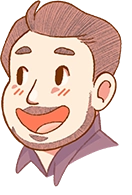
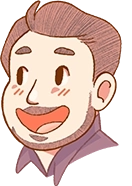
edited employee image photos to fit them better and removed eb name and eb person image preloads

diff --git a/public/template.html b/public/template.html
@@ -14,21 +14,6 @@
     <!-- Always -->
     <link rel="preload" as="image" href="/assets/navbar/logo.svg" />
 
-    <!-- 600px and downwards -->
-    <link
-      rel="preload"
-      as="image"
-      media="(max-width: 600px)"
-      href="/assets/ebSection/ebName.svg"
-    />
-
-    <link
-      rel="preload"
-      as="image"
-      media="(max-width: 600px)"
-      href="/assets/ebSection/ebPerson.webp"
-    />
-
     <!--   600px and upwards -->
     <link
       rel="preload"
@@ -305,11 +290,13 @@
                 id="banzaimanLogo"
                 src="assets/banzaimanSection/logoTest.webp"
               />
-              <img
-                alt="banzaiman game image"
-                id="banzaimanGameImage"
-                src="assets/banzaimanSection/tabSelector/banzai_1.webp"
-              />
+              <div id="banzaimanGameImageContainer">
+                <img
+                  alt="banzaiman game image"
+                  id="banzaimanGameImage"
+                  src="assets/banzaimanSection/tabSelector/banzai_1.webp"
+                />
+              </div>
               <div id="banzaimanTabSelector">
                 <button id="gongButton" class="tabSelectorButton">
                   <img

diff --git a/src/style.css b/src/style.css
@@ -556,10 +556,14 @@ button {
   width: 400px;
 }
 
-#banzaimanGameImage {
-  display: block;
+#banzaimanGameImageContainer {
   width: 560px;
   height: 335px;
+}
+
+.banzaimanGameImage {
+  width: 100%;
+  height: 100%;
 }
 
 #banzaimanTabSelector {
@@ -710,7 +714,7 @@ button {
 
 .employeeImage {
   position: absolute;
-  bottom: 12.7rem;
+  bottom: 13rem;
   height: 195px;
 }
 
@@ -1145,6 +1149,11 @@ button {
     height: 25%;
   }
 
+  #banzaimanGameImageContainer {
+    width: 100%;
+    height: 100%;
+  }
+
   #banzaimanGameImage {
     width: 100%;
     height: 100%;
@@ -1162,6 +1171,7 @@ button {
   #cardContainer {
     align-items: center;
     width: 100%;
+    padding-bottom: 1.5rem;
   }
   .card {
   }
@@ -1190,6 +1200,7 @@ button {
   /* eb section */
   .card {
     width: 100%;
+    box-shadow: none;
   }
 
   #cardImagePerson {
@@ -1207,10 +1218,6 @@ button {
   }
 
   #gameSectionContainer {
-    width: 100%;
-  }
-
-  #banzaimanGameImage {
     width: 100%;
   }
 

diff --git a/src/index.js b/src/index.js
@@ -14,12 +14,6 @@ const rightEye = document.getElementById("rightEye");
 const eyes = document.querySelectorAll(".eye"); // needed if using the other variant of the dogEyeMove
 const doggo = document.getElementById("doggo"); // needed if using the other variant of the dogEyeMove
 const tabImage = document.getElementById("banzaimanGameImage");
-// const gongButton = document.getElementById("gongButton");
-// const mountainButton = document.getElementById("mountainButton");
-// const glyphButton = document.getElementById("glyphButton");
-// const spaceButton = document.getElementById("spaceButton");
-// const maracasButton = document.getElementById("maracasButton");
-// const menuButton = document.getElementById("mainMenu");
 const navbarButton = document.getElementById("navbarButton");
 const tabButtons = document.getElementsByClassName("tabSelectorButton");
 const buttonImages = document.getElementsByClassName("buttonImage");
